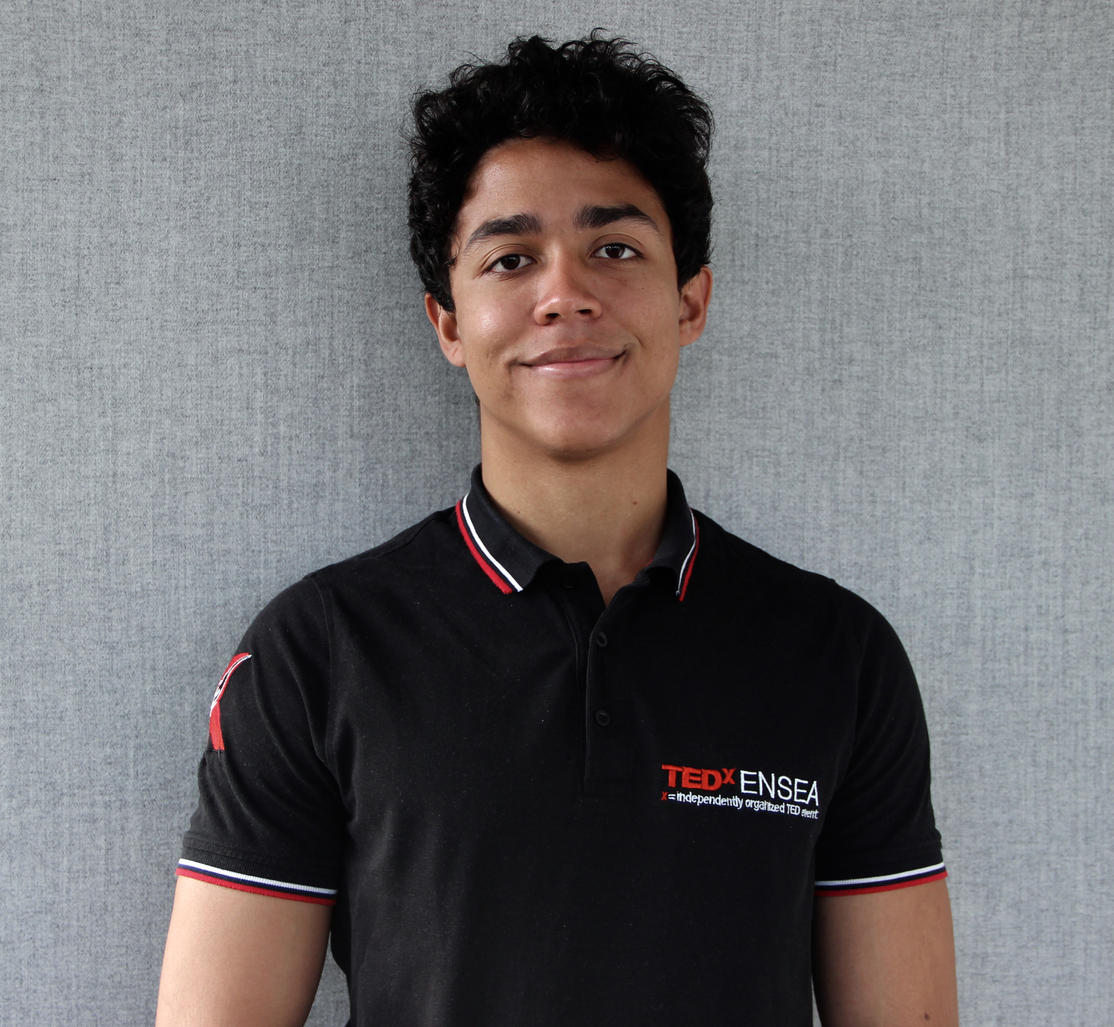
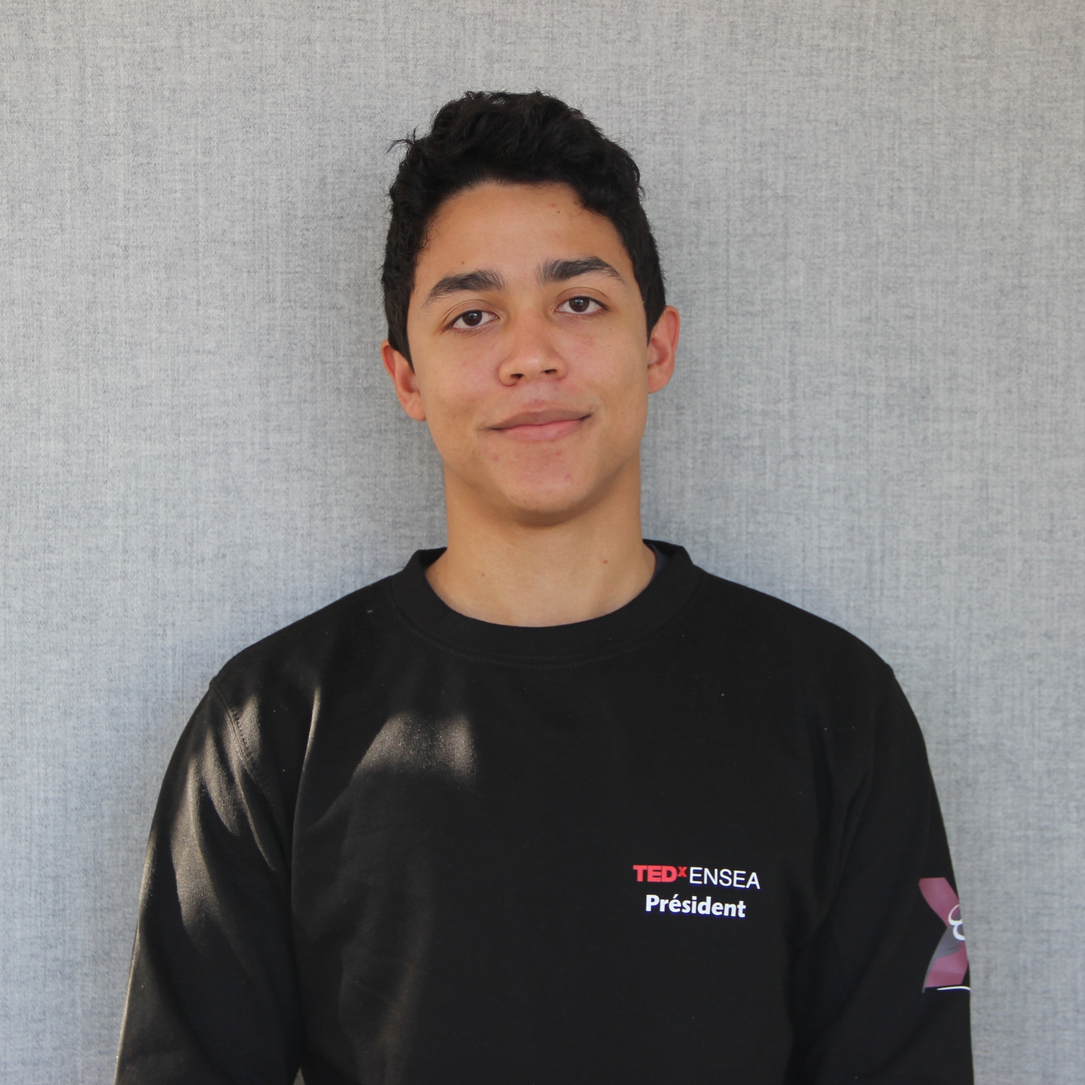
Added Team members

diff --git a/pages/index.js b/pages/index.js
@@ -189,7 +189,7 @@ function Pole(props) {
           {props.description}
         </p>
       </header>
-      <div className='grid gap-6 grid-cols-2 sm:grid-cols-3 md:grid-cols-4'>
+      <div className='mt-8 grid gap-6 grid-cols-1 sm:grid-cols-2 md:grid-cols-3 justify-center justify-items-center'>
         {props.children}
       </div>
     </div>
@@ -197,20 +197,26 @@ function Pole(props) {
 }
 
 function TeamMember(props) {
+
+  const lastNameArray = props.lastName.split(' ');
+  const prefixLastName = lastNameArray[0];
+
+  console.log(prefixLastName)
+
   return (
-    <div className='group max-w-sm transition ease-in-out hover:scale-[1.007]'>
+    <div className='group max-w-sm transition ease-in-out hover:scale-[1.007] w-full'>
       <div className='rounded-full overflow-hidden'>
         <div
-          className='aspect-square bg-cover bg-center drop-shadow-xl  group-hover:sepia group-hover:blur-sm'
+          className='aspect-square bg-cover bg-center drop-shadow-xl  group-hover:grayscale group-hover:blur-sm'
           style={{
-            backgroundImage: `url(/images/team/${props.firstName}-${props.lastName}.jpg)`,
+            backgroundImage: `url(/images/team/${props.firstName}-${prefixLastName}.jpg)`,
           }}></div>
       </div>
       <figcaption className='absolute top-[50%] left-[50%] translate-x-[-50%] translate-y-[-50%]  invisible group-hover:visible text-center'>
-        <div className='text-xl font-bold'>
+        <div className='text-xl font-bold cursor-default'>
           {props.firstName} {props.lastName}
         </div>
-        <div className='text-md font-medium mt-2'>
+        <div className='text-md font-medium mt-2 cursor-default'>
           {props.role}
         </div>
       </figcaption>
@@ -243,14 +249,14 @@ export default function Home() {
         <p className='text=[#A1A1A6] text-2xl font-medium max-w-[300px] md:max-w-xl lg:max-w-[75%] lg:basis-[75%]'>
           Le thème &quot;ESCAPE&quot; a été choisi dans la lignée des deux précédentes éditions du TEDxENSEA (&quot;Bring Down the Walls&quot; et &quot;Explore New Paths&quot;), avec la volonté d&apos;amener les gens à reconsidérer leur façon de penser et remettre en question ce qu&apos;ils prenaient pour acquis.
         </p>
-        <p className='text=[#A1A1A6] text-2xl font-medium max-w-[300px] md:max-w-xl lg:max-w-[75%] lg:basis-[75%] mt-4'>
-          Et, c&apos;est également pour répondre à cette idée que nous avons soigneusement sélectionné nos 7 speakers.
+        <p className='text=[#A1A1A6] text-3xl font-bold max-w-[300px] md:max-w-xl lg:max-w-[75%] lg:basis-[75%] mt-8'>
+          Le Samedi 5 février 2022 (14h - 19h) à l&apos;Auditorium de l&apos;IPSL.
         </p>
       </Section>
 
       <Section
         eyebrow="Nos speakers"
-        headline="Une thématique, ESCAPE. Un seul objectif, tous vous faire voyager à travers leurs prises de parole."
+        headline="Une thématique, ESCAPE. Un objectif, tous vous faire voyager à travers leurs prises de parole."
         id="speakers"
       >
 
@@ -311,34 +317,152 @@ export default function Home() {
         headline="Etudiants ingénieurs de l'Ecole Nationale Supérieure de l'Electronique et de ses Applications."
         id="team"
       >
-        <p className='text=[#A1A1A6] text-2xl font-medium max-w-[300px] md:max-w-xl lg:max-w-[75%] lg:basis-[75%]'>
-        L&apos;organisation du TEDxENSEA est organisée en 5 pôles: le pôle speakers, le pôle logistique, le pôle communication, le pôle partenariat et le pôle jour J.
-        </p>
+
+        <Pole
+          name="Bureau"
+          description=""
+        >
+          <TeamMember
+            firstName="Noah"
+            lastName="Delcourt"
+            role=""
+          />
+          <TeamMember
+            firstName="Alix"
+            lastName="Havret"
+            role=""
+          />
+          <TeamMember
+            firstName="Anne"
+            lastName="Couapel"
+            role=""
+          />
+          <TeamMember
+            firstName="Adrien"
+            lastName="Dupont"
+            role=""
+          />
+        </Pole>
 
         <Pole
           name="Le pôle speakers"
           description="Recrutement et suivi des conférenciers qui viendront à l&apos;événement."
         >
+          <TeamMember
+            firstName="Kaouding"
+            lastName="Savane"
+            role=""
+          />
+          <TeamMember
+            firstName="Judeson"
+            lastName="Anthony Fernando"
+            role=""
+          />
+          <TeamMember
+            firstName="Karl"
+            lastName="Lubbos"
+            role=""
+          />
+          <TeamMember
+            firstName="Nina"
+            lastName="Van"
+            role=""
+          />
+          <TeamMember
+            firstName="Bryan"
+            lastName="Guerineau"
+            role=""
+          />
+          <TeamMember
+            firstName="Michaela"
+            lastName="Dimitrova"
+            role=""
+          />
         </Pole>
         <Pole
           name="Le pôle logistique"
           description="Organisation de l&apos;évènement, choix des prestataires techniques."
         >
+          <TeamMember
+            firstName="Alicia"
+            lastName="Cande"
+            role=""
+          />
+          <TeamMember
+            firstName="Hugo"
+            lastName="Claudel"
+            role=""
+          />
+          <TeamMember
+            firstName="Coco"
+            lastName="Huet"
+            role=""
+          />
+          <TeamMember
+            firstName="Julie"
+            lastName="Mercier"
+            role=""
+          />
+          <TeamMember
+            firstName="Othmane"
+            lastName="Cherai"
+            role=""
+          />
+          <TeamMember
+            firstName="Jimmy"
+            lastName="Pan"
+            role=""
+          />
+          <TeamMember
+            firstName="Franck"
+            lastName="Schmitt"
+            role=""
+          />
         </Pole>
         <Pole
           name="Le pôle communication"
           description="Mise en place du plan de communication avant, pendant et après le TEDx, prise de contact avec les radios et journaux locaux pour davantage de visibilité."
         >
+          <TeamMember
+            firstName="Adam"
+            lastName="Cheikh Brahim"
+            role=""
+          />
+          <TeamMember
+            firstName="Zacharie"
+            lastName="Rodiere"
+            role=""
+          />
+          <TeamMember
+            firstName="Romain"
+            lastName="Joalland"
+            role=""
+          />
         </Pole>
         <Pole
           name="Le pôle partenariat"
           description="Recherche et suivi des sponsors."
         >
+          <TeamMember
+            firstName="Hardy"
+            lastName="Londou Laodjassondo"
+            role=""
+          />
         </Pole>
         <Pole
-          name="Le pôle jour J"
-          description="Préparation d&apos;un planning pour le Jour J, affectation des membres de l&apos;équipe à un rôle."
+          name="Devéloppement web"
+          description=""
         >
+          <TeamMember
+            firstName="Jathurchan"
+            lastName="Selvakumar"
+            role=""
+          />
+          <TeamMember
+            firstName="Mohammed"
+            lastName="Guitni"
+            role=""
+          />
         </Pole>
 
       </Section>
